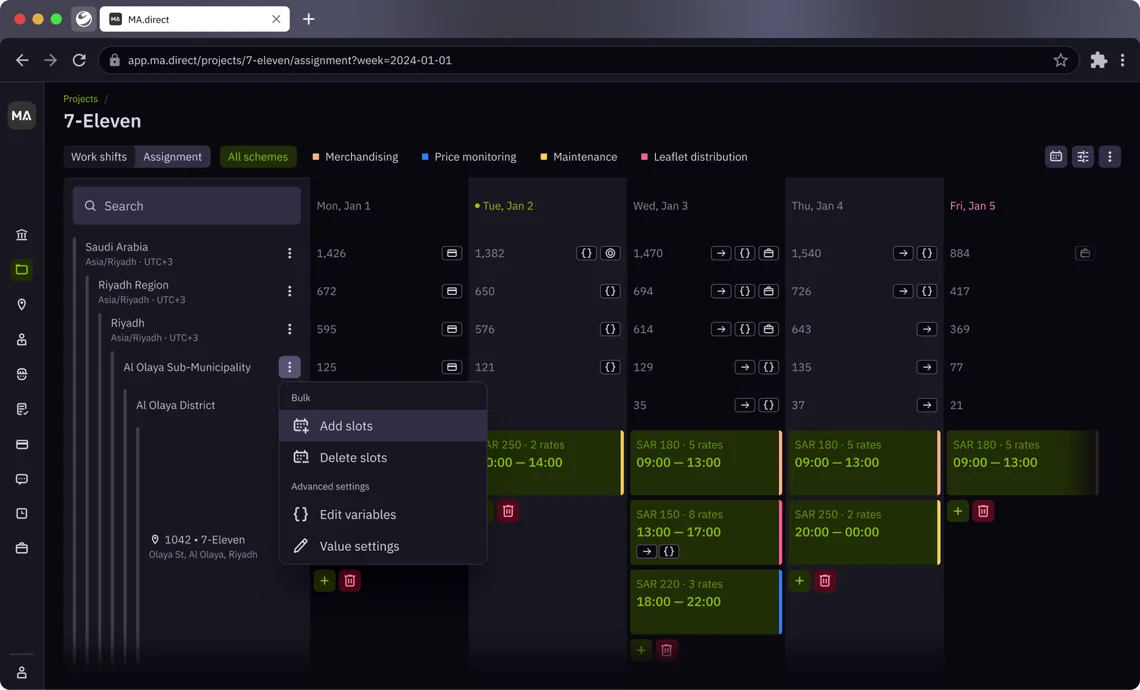
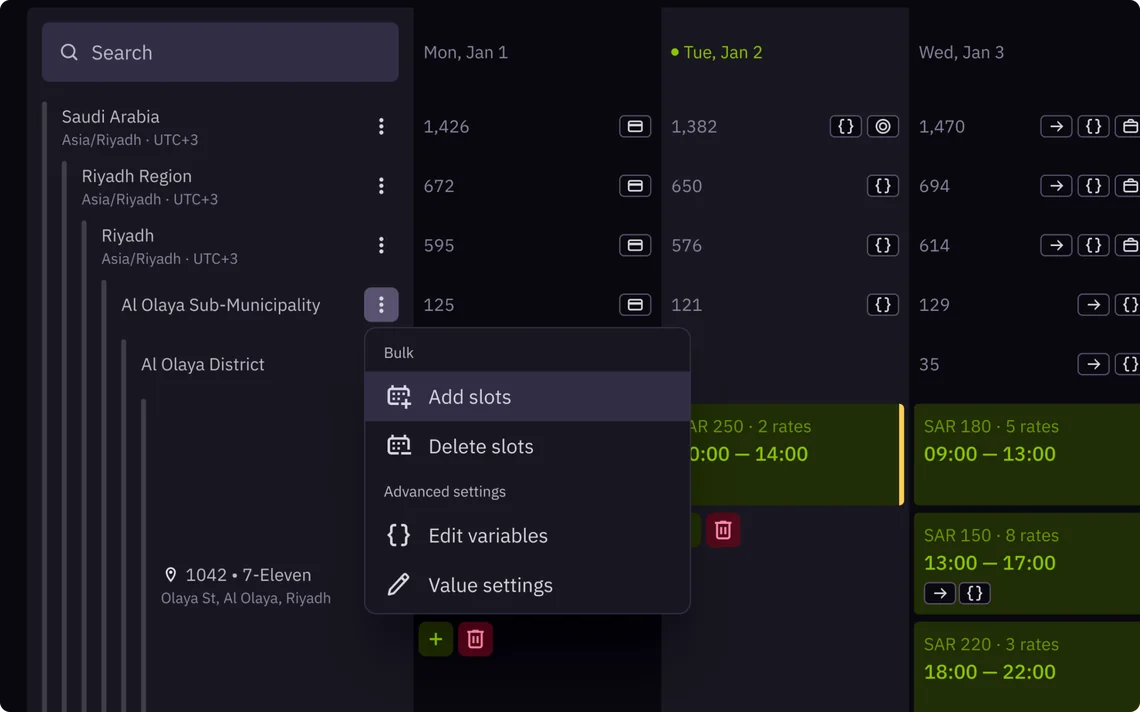
Recrop MA Direct product window image with rounded corners

diff --git a/ma-direct/index.html b/ma-direct/index.html
@@ -173,7 +173,7 @@
           <span class="image-loader image-loader--spinner">
             <img class="media__image" src="../assets/img/ma-direct/product-window-1140.webp" srcset="../assets/img/ma-direct/product-window-1140.webp 1140w, ../assets/img/ma-direct/product-window-2160.webp 2160w"
                  sizes="(max-width: 767.98px) calc(100vw - 48px), min(1140px, calc(100vw - 280px))"
-                 width="2160" height="1308" alt="The MA.direct shift planner in a browser window at app.ma.direct: the 7-Eleven project in Assignment view, with a location tree from Saudi Arabia down to store 1042 on Olaya St. A bulk menu is open on Al Olaya Sub-Municipality with Add slots, Delete slots, Edit variables and Value settings, next to daily counts for Mon, Jan 1 to Fri, Jan 5 and shift cards such as SAR 180 · 5 rates, 09:00 — 13:00." loading="lazy" decoding="async">
+                 width="2160" height="1349" alt="The MA.direct shift planner in a browser window at app.ma.direct: the 7-Eleven project in Assignment view, with a location tree from Saudi Arabia down to store 1042 on Olaya St. A bulk menu is open on Al Olaya Sub-Municipality with Add slots, Delete slots, Edit variables and Value settings, next to daily counts for Mon, Jan 1 to Fri, Jan 5 and shift cards such as SAR 180 · 5 rates, 09:00 — 13:00." loading="lazy" decoding="async">
           </span>
           <span class="visually-hidden">(opens full size)</span>
         </a>
